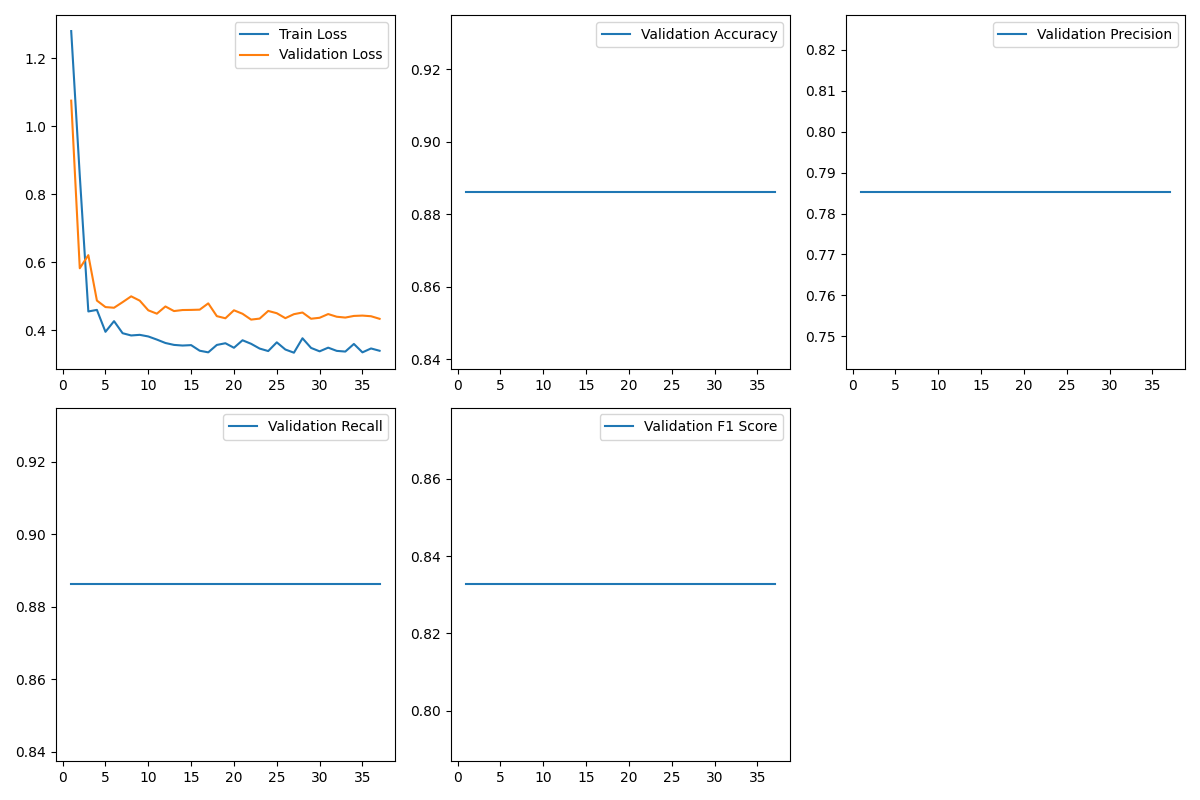
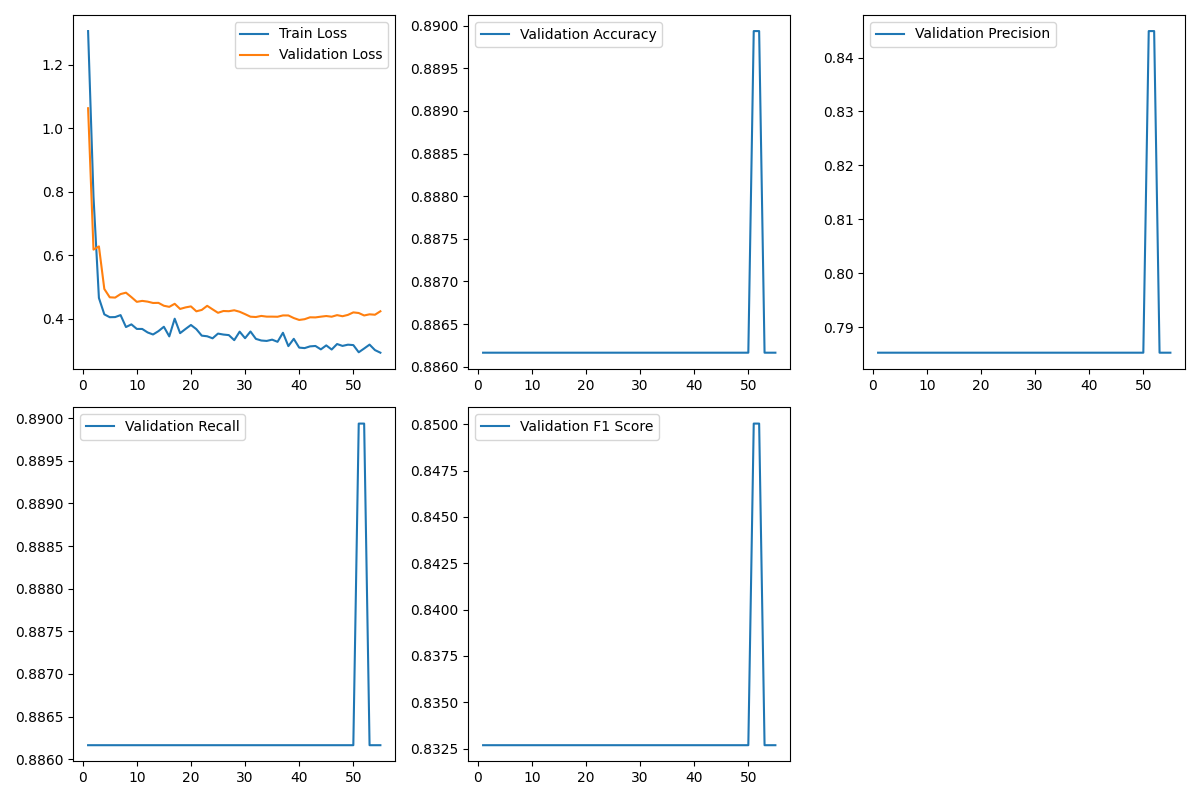
With multi labels

diff --git a/prosody/training_scripts/prosody_transformer.py b/prosody/training_scripts/prosody_transformer.py
@@ -5,9 +5,7 @@ import numpy as np
 from torch.utils.data import Dataset, DataLoader, random_split
 import torch.nn as nn
 import torch.optim as optim
-from torchinfo import summary
 from sklearn.metrics import accuracy_score, precision_score, recall_score, f1_score
-import matplotlib.pyplot as plt
 import pandas as pd
 import re
 
@@ -53,12 +51,6 @@ def split_data(data, train_ratio=0.8, val_ratio=0.1, test_ratio=0.1):
     test_size = total - train_size - val_size
     return random_split(list(data.items()), [train_size, val_size, test_size])
 
-def preprocess_text(words):
-    processed_words = []
-    for word in words:
-        processed_words.extend(re.findall(r"[\w']+|[.,!?;]", word))
-    return processed_words
-
 class ProsodyDataset(Dataset):
     def __init__(self, data):
         self.data = data
@@ -85,78 +77,53 @@ def collate_fn(batch):
 
     return features_padded, labels_padded
 
-class AttentionLayer(nn.Module):
-    def __init__(self, hidden_dim):
-        super(AttentionLayer, self).__init__()
-        self.attn = nn.Linear(hidden_dim * 2 + hidden_dim, hidden_dim)
-        self.v = nn.Linear(hidden_dim, 1, bias=False)
-
-    def forward(self, hidden, encoder_outputs):
-        src_len = encoder_outputs.size(1)
-        hidden = hidden.unsqueeze(1).repeat(1, src_len, 1)
-        energy = torch.tanh(self.attn(torch.cat((hidden, encoder_outputs), dim=2)))
-        attention = self.v(energy).squeeze(2)
-        return torch.softmax(attention, dim=1)
-
-class MultiAttention(nn.Module):
-    def __init__(self, hidden_dim, num_layers):
-        super(MultiAttention, self).__init__()
-        self.attention_layers = nn.ModuleList([AttentionLayer(hidden_dim) for _ in range(num_layers)])
-
-    def forward(self, hidden, encoder_outputs):
-        attn_weights = []
-        for layer in self.attention_layers:
-            attn_weight = layer(hidden, encoder_outputs)
-            attn_weights.append(attn_weight)
-        attn_weights = torch.stack(attn_weights, dim=1).mean(dim=1)
-        return attn_weights
-
-class Encoder(nn.Module):
-    def __init__(self, feature_dim, hidden_dim, num_layers, dropout):
-        super(Encoder, self).__init__()
-        self.lstm = nn.LSTM(feature_dim, hidden_dim, num_layers, dropout=dropout, batch_first=True, bidirectional=True)
+class TransformerEncoder(nn.Module):
+    def __init__(self, feature_dim, hidden_dim, num_layers, dropout, num_heads=8):
+        super(TransformerEncoder, self).__init__()
+        self.input_fc = nn.Linear(feature_dim, hidden_dim)
+        self.encoder_layer = nn.TransformerEncoderLayer(d_model=hidden_dim, nhead=num_heads, dropout=dropout)
+        self.transformer_encoder = nn.TransformerEncoder(self.encoder_layer, num_layers=num_layers)
+        self.dropout = nn.Dropout(dropout)
 
     def forward(self, features):
-        outputs, (hidden, cell) = self.lstm(features)
-        return outputs, hidden, cell
+        src = self.input_fc(features)
+        src = self.dropout(src)
+        memory = self.transformer_encoder(src)
+        return memory
 
-class Decoder(nn.Module):
-    def __init__(self, hidden_dim, output_dim, num_layers, dropout, num_attention_layers, num_classes=2):
-        super(Decoder, self).__init__()
+class TransformerDecoder(nn.Module):
+    def __init__(self, hidden_dim, output_dim, num_layers, dropout, num_classes=2, num_heads=8):
+        super(TransformerDecoder, self).__init__()
         self.hidden_dim = hidden_dim
         self.num_classes = num_classes
-        self.lstm = nn.LSTM(hidden_dim * 4, hidden_dim, num_layers, dropout=dropout, batch_first=True, bidirectional=True)
+        self.input_fc = nn.Linear(hidden_dim, hidden_dim)  # Ensure the input has the correct dimensionality
+        self.decoder_layer = nn.TransformerDecoderLayer(d_model=hidden_dim, nhead=num_heads, dropout=dropout)
+        self.transformer_decoder = nn.TransformerDecoder(self.decoder_layer, num_layers=num_layers)
+        self.fc_out = nn.Linear(hidden_dim, output_dim * num_classes if num_classes > 2 else output_dim)
+        self.activation = nn.Sigmoid() if num_classes == 2 else None
 
-        if num_classes == 2:
-            self.fc = nn.Linear(hidden_dim * 2, output_dim)
-            self.activation = nn.Sigmoid()  # For binary classification
-        else:
-            self.fc = nn.Linear(hidden_dim * 2, output_dim * num_classes)
-            self.activation = None  # No activation before CrossEntropyLoss
-
-        self.attention = MultiAttention(hidden_dim, num_attention_layers)
-
-    def forward(self, encoder_outputs, hidden, cell):
-        attn_weights = self.attention(hidden[-1], encoder_outputs)
-        context = torch.bmm(attn_weights.unsqueeze(1), encoder_outputs).squeeze(1)
-        lstm_input = torch.cat((context.unsqueeze(1).repeat(1, encoder_outputs.size(1), 1), encoder_outputs), dim=2)
-        outputs, (hidden, cell) = self.lstm(lstm_input, (hidden, cell))
-        predictions = self.fc(outputs)
+    def forward(self, memory, tgt):
+        tgt = self.input_fc(tgt)  # Ensure target is projected to the correct hidden dimension
+        output = self.transformer_decoder(tgt, memory)
+        output = self.fc_out(output)
 
         if self.num_classes == 2:
-            predictions = self.activation(predictions)  # Apply Sigmoid for binary classification
+            output = self.activation(output)
 
-        return predictions, (hidden, cell)
+        return output
 
-class Seq2Seq(nn.Module):
+class TransformerSeq2Seq(nn.Module):
     def __init__(self, encoder, decoder):
-        super(Seq2Seq, self).__init__()
+        super(TransformerSeq2Seq, self).__init__()
         self.encoder = encoder
         self.decoder = decoder
 
     def forward(self, features):
-        encoder_outputs, hidden, cell = self.encoder(features)
-        outputs, (hidden, cell) = self.decoder(encoder_outputs, hidden, cell)
+        print("Input features shape:", features.shape)
+        memory = self.encoder(features)
+        print("Memory shape after encoder:", memory.shape)
+        outputs = self.decoder(memory, features)
+        print("Outputs shape after decoder:", outputs.shape)
         return outputs
 
 def train(model, iterator, optimizer, criterion, num_classes=2):
@@ -216,7 +183,7 @@ def test_model(model, iterator, num_classes=2):
     model.eval()
     all_labels = []
     all_preds = []
-    with open('./outputs/prosody_bilstm_features_results.txt', 'w') as file:
+    with open('./outputs/prosody_transformer_features_results.txt', 'w') as file:
         file.write("")
     with torch.no_grad():
         for features, labels in iterator:
@@ -237,7 +204,7 @@ def test_model(model, iterator, num_classes=2):
                 }
 
                 df = pd.DataFrame(data)
-                with open('./outputs/prosody_bilstm_features_results.txt', 'a') as file:
+                with open('./outputs/prosody_transformer_features_results.txt', 'a') as file:
                     file.write(df.to_string(index=False))
                     file.write("\n" + "-" * 50 + "\n")
 
@@ -254,47 +221,11 @@ def test_model(model, iterator, num_classes=2):
     print(f'Test F1 Score: {f1:.2f}')
     return all_labels, all_preds
 
-def plot_metrics(train_losses, val_losses, val_accuracies, val_precisions, val_recalls, val_f1s):
-    epochs = range(1, len(train_losses) + 1)
-    plt.figure(figsize=(12, 8))
-    plt.subplot(2, 3, 1)
-    plt.plot(epochs, train_losses, label='Train Loss')
-    plt.plot(epochs, val_losses, label='Validation Loss')
-    plt.legend()
-    plt.subplot(2, 3, 2)
-    plt.plot(epochs, val_accuracies, label='Validation Accuracy')
-    plt.legend()
-    plt.subplot(2, 3, 3)
-    plt.plot(epochs, val_precisions, label='Validation Precision')
-    plt.legend()
-    plt.subplot(2, 3, 4)
-    plt.plot(epochs, val_recalls, label='Validation Recall')
-    plt.legend()
-    plt.subplot(2, 3, 5)
-    plt.plot(epochs, val_f1s, label='Validation F1 Score')
-    plt.legend()
-    plt.tight_layout()
-    plt.savefig('./outputs/bilstm_features_version.png')
-
-def clean_up_sentence(words, gold_labels, pred_labels):
-    end_index = len(words) - 1
-    while end_index >= 0 and words[end_index] == 'the':
-        end_index -= 1
-
-    filtered_gold_labels = gold_labels[:end_index+1]
-    filtered_pred_labels = pred_labels[:end_index+1]
-
-    for i in range(end_index+1, len(words)):
-        filtered_gold_labels.append(gold_labels[i])
-        filtered_pred_labels.append(pred_labels[i])
-
-    return filtered_gold_labels, filtered_pred_labels
-
 if __name__ == "__main__":
     
     seed = 42 
     set_seed(seed)
-    json_path = '../prosody/multi_label_features.json' #change data path here
+    json_path = '../prosody/multi_label_features.json' # Change data path here
     data = load_data(json_path)
 
     train_data, val_data, test_data = split_data(data)
@@ -314,21 +245,18 @@ if __name__ == "__main__":
     HIDDEN_DIM = 128
     OUTPUT_DIM = 1
     NUM_LAYERS = 4
-    DROPOUT = 0.5
-    NUM_ATTENTION_LAYERS = 8
+    DROPOUT = 0.3
+    NUM_HEADS = 8
     NUM_CLASSES = 4  # Change this depending on the number of classes (set to 2 for binary classification)
 
     device = torch.device('cuda' if torch.cuda.is_available() else 'cpu')
     feature_dim = next(iter(train_loader))[0].shape[2]
 
-    encoder = Encoder(feature_dim, HIDDEN_DIM, NUM_LAYERS, DROPOUT).to(device)
-    decoder = Decoder(HIDDEN_DIM, OUTPUT_DIM, NUM_LAYERS, DROPOUT, NUM_ATTENTION_LAYERS, num_classes=NUM_CLASSES).to(device)
-    model = Seq2Seq(encoder, decoder).to(device)
+    encoder = TransformerEncoder(feature_dim, HIDDEN_DIM, NUM_LAYERS, DROPOUT, num_heads=NUM_HEADS).to(device)
+    decoder = TransformerDecoder(HIDDEN_DIM, OUTPUT_DIM, NUM_LAYERS, DROPOUT, num_classes=NUM_CLASSES, num_heads=NUM_HEADS).to(device)
+    model = TransformerSeq2Seq(encoder, decoder).to(device)
 
-    sample_features, _ = next(iter(train_loader))
-    summary(model, input_data=sample_features, device=device, depth=6)
-
-    optimizer = optim.Adam(model.parameters(), weight_decay=1e-5)
+    optimizer = optim.Adam(model.parameters(), lr=0.001, weight_decay=1e-5)
     criterion = nn.CrossEntropyLoss() if NUM_CLASSES > 2 else nn.BCELoss()
 
     train_losses = []
@@ -338,7 +266,7 @@ if __name__ == "__main__":
     val_recalls = []
     val_f1s = []
 
-    N_EPOCHS = 500
+    N_EPOCHS = 100
     CLIP = 1
 
     early_stopping = EarlyStopping(patience=15, min_delta=0.001)
@@ -357,7 +285,7 @@ if __name__ == "__main__":
 
         if valid_loss < best_valid_loss:
             best_valid_loss = valid_loss
-            torch.save(model.state_dict(), 'models/best-model-features-version.pt')
+            torch.save(model.state_dict(), 'models/best-transformer-model.pt')
 
         print(f'Epoch: {epoch+1:02}')
         print(f'\tTrain Loss: {train_loss:.3f}')
@@ -368,6 +296,5 @@ if __name__ == "__main__":
             print("Early stopping")
             break
 
-    model.load_state_dict(torch.load('models/best-model-features-version.pt'))
+    model.load_state_dict(torch.load('models/best-transformer-model.pt'))
     test_model(model, test_loader, num_classes=NUM_CLASSES)
-    plot_metrics(train_losses, val_losses, val_accuracies, val_precisions, val_recalls, val_f1s)
